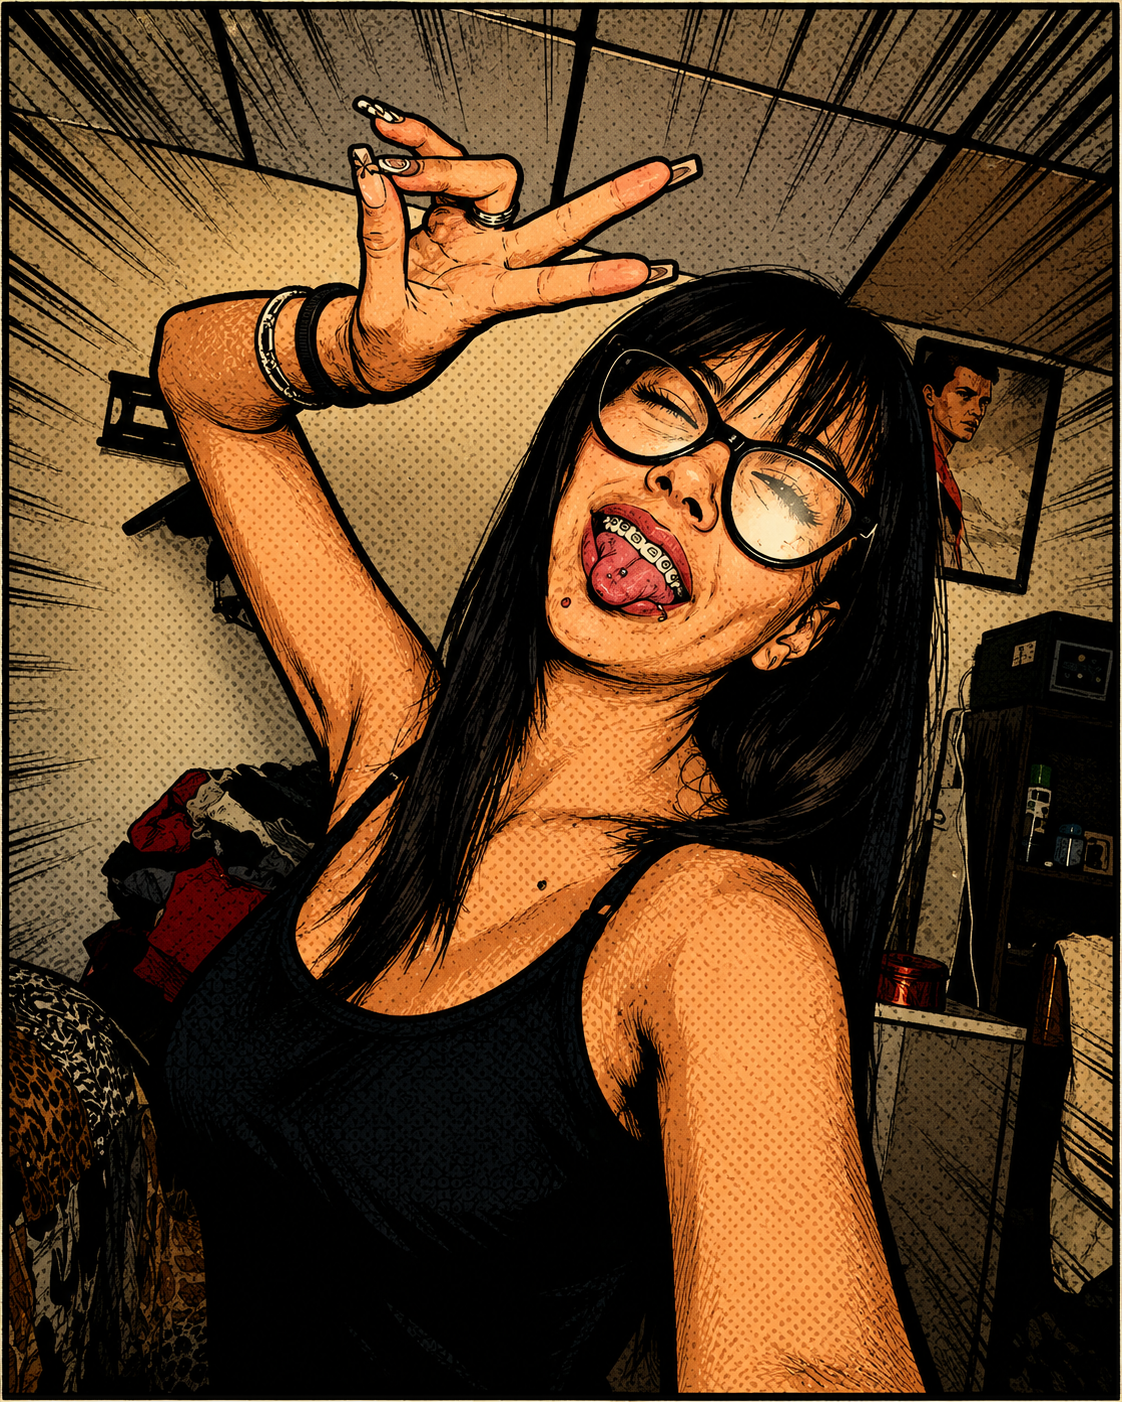
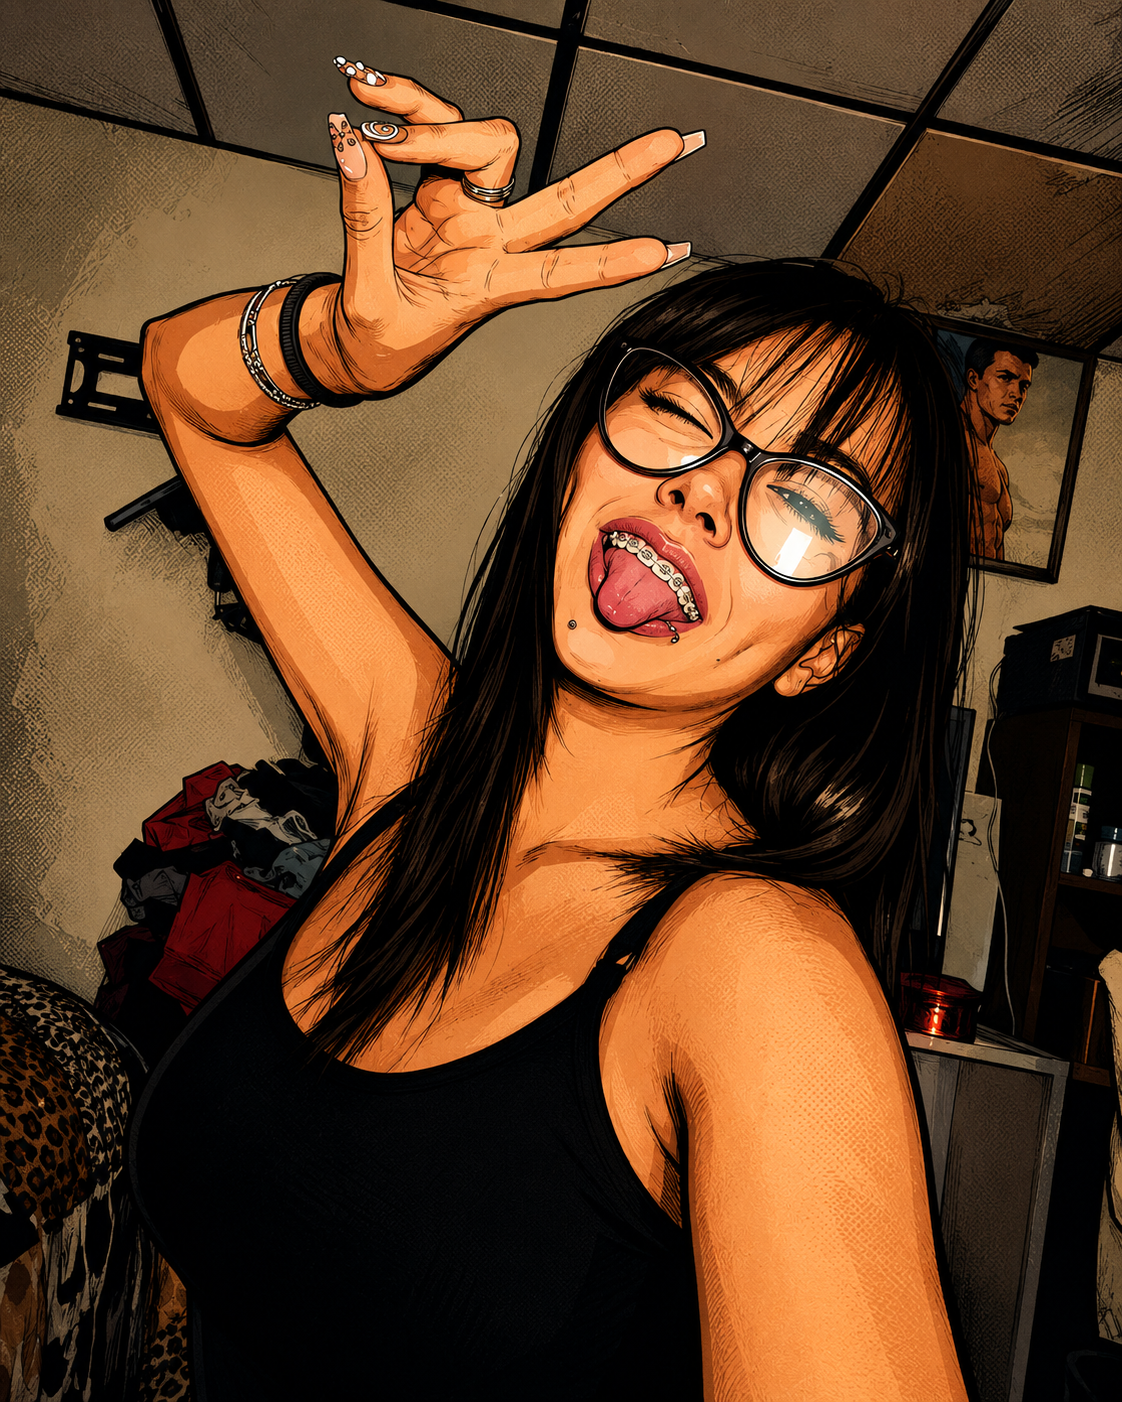
Cambiar mensaje de cumpleaños a solo Feliz cumpleaños.
Actualiza textos de intro y timeline, y reemplaza shere2comic.png.

diff --git a/src/components/UniverseTimelineMontage.jsx b/src/components/UniverseTimelineMontage.jsx
@@ -513,7 +513,7 @@ function BirthdayFinal({ config, onClose, onReplay }) {
         </motion.div>
         <motion.h2 initial={{ opacity: 0, y: 22 }} animate={{ opacity: 1, y: 0 }} transition={{ delay: 0.4, duration: 0.9 }} className="font-serif italic"
           style={{ fontSize: 'clamp(2rem,7vw,4rem)', lineHeight: 1.15, background: `linear-gradient(135deg, ${C.gold}, ${C.purpleL}, ${C.pink}, ${C.goldL})`, WebkitBackgroundClip: 'text', WebkitTextFillColor: 'transparent', backgroundClip: 'text', filter: 'drop-shadow(0 0 24px rgba(201,168,76,0.35))' }}>
-          {config.outroTitle || 'Feliz cumpleaños Shere'}
+          {config.outroTitle || 'Feliz cumpleaños'}
         </motion.h2>
         <motion.p initial={{ opacity: 0, y: 12 }} animate={{ opacity: 1, y: 0 }} transition={{ delay: 0.9, duration: 0.9 }} className="font-serif italic mt-5"
           style={{ fontSize: 'clamp(0.9rem,2.4vw,1.15rem)', color: 'rgba(245,240,232,0.7)', maxWidth: 460, margin: '0 auto', lineHeight: 1.65 }}>

diff --git a/src/components/CinematicLettersIntro.jsx b/src/components/CinematicLettersIntro.jsx
@@ -230,7 +230,7 @@ export default function CinematicLettersIntro({ config = {}, onComplete }) {
 
   const duration = config.cinematicIntroDuration ?? DURATION_MS
   const heroName = (config.heroName || 'SHERE').toUpperCase()
-  const birthdayText = config.birthdayRevealText || config.outroTitle || 'Feliz cumpleaños Shere'
+  const birthdayText = config.birthdayRevealText || config.outroTitle || 'Feliz cumpleaños'
   const comicImages = useMemo(() => getComicSources(config), [config])
   const letterImages = useMemo(() => getLetterSources(config), [config])
   const letters = heroName.split('')
